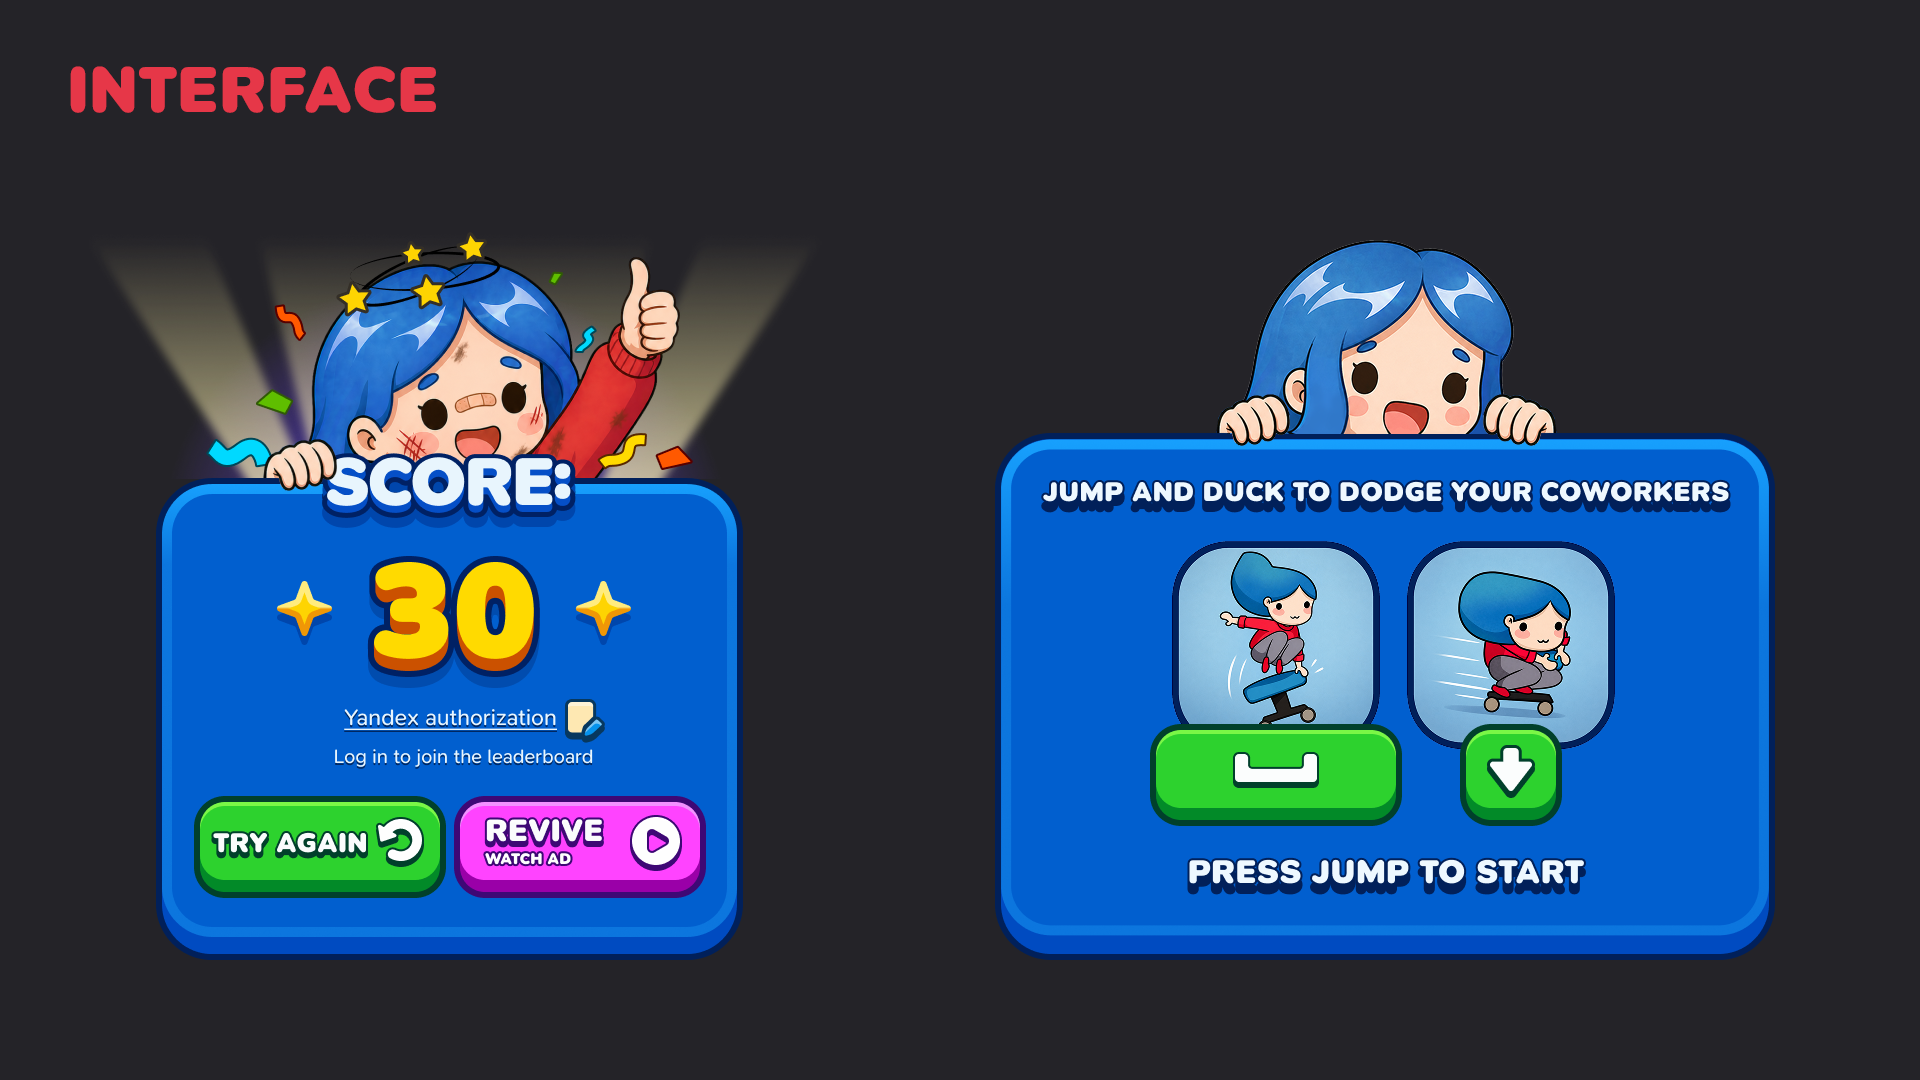
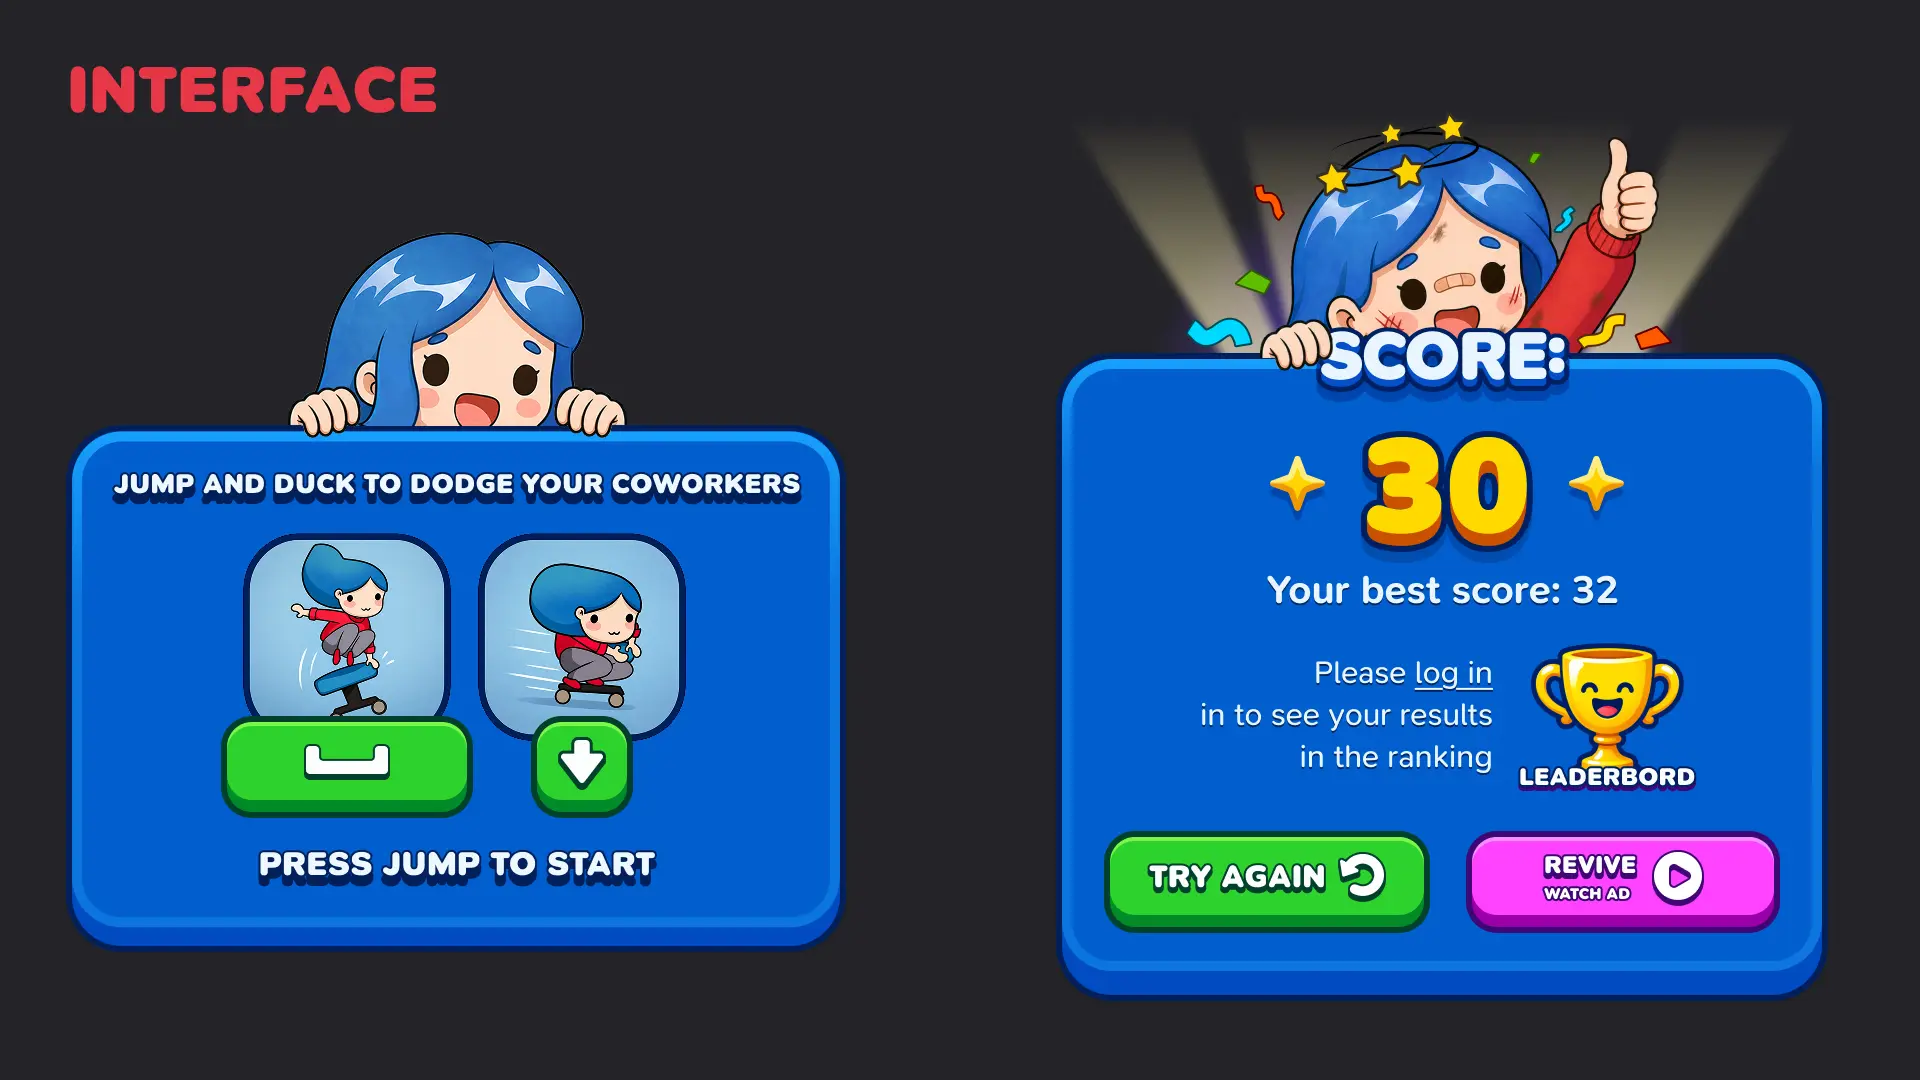
Update crazy office image carousel

diff --git a/project-crazy-office-runner.html b/project-crazy-office-runner.html
@@ -786,7 +786,9 @@
                     <img src="images/crazy_office/4.webp" alt="Screenshot 3" loading="lazy">
                     <img src="images/crazy_office/5.webp" alt="Screenshot 4" loading="lazy">
                     <img src="images/crazy_office/6.webp" alt="Screenshot 5" loading="lazy">
-                    <img src="images/crazy_office/ai_video_final.webp" alt="Screenshot 6" loading="lazy">
+                    <img src="images/crazy_office/7.webp" alt="Screenshot 6" loading="lazy">
+                    <img src="images/crazy_office/8.webp" alt="Screenshot 7" loading="lazy">
+                    <img src="images/crazy_office/ai_video_final.webp" alt="Screenshot 8" loading="lazy">
                 </div>
                 <button class="carousel-btn carousel-prev" aria-label="Previous slide">
                     <svg width="14" height="14" viewBox="0 0 14 14" fill="none"><path d="M9 2L4 7L9 12" stroke="currentColor" stroke-width="1.5" stroke-linecap="round" stroke-linejoin="round"/></svg>
